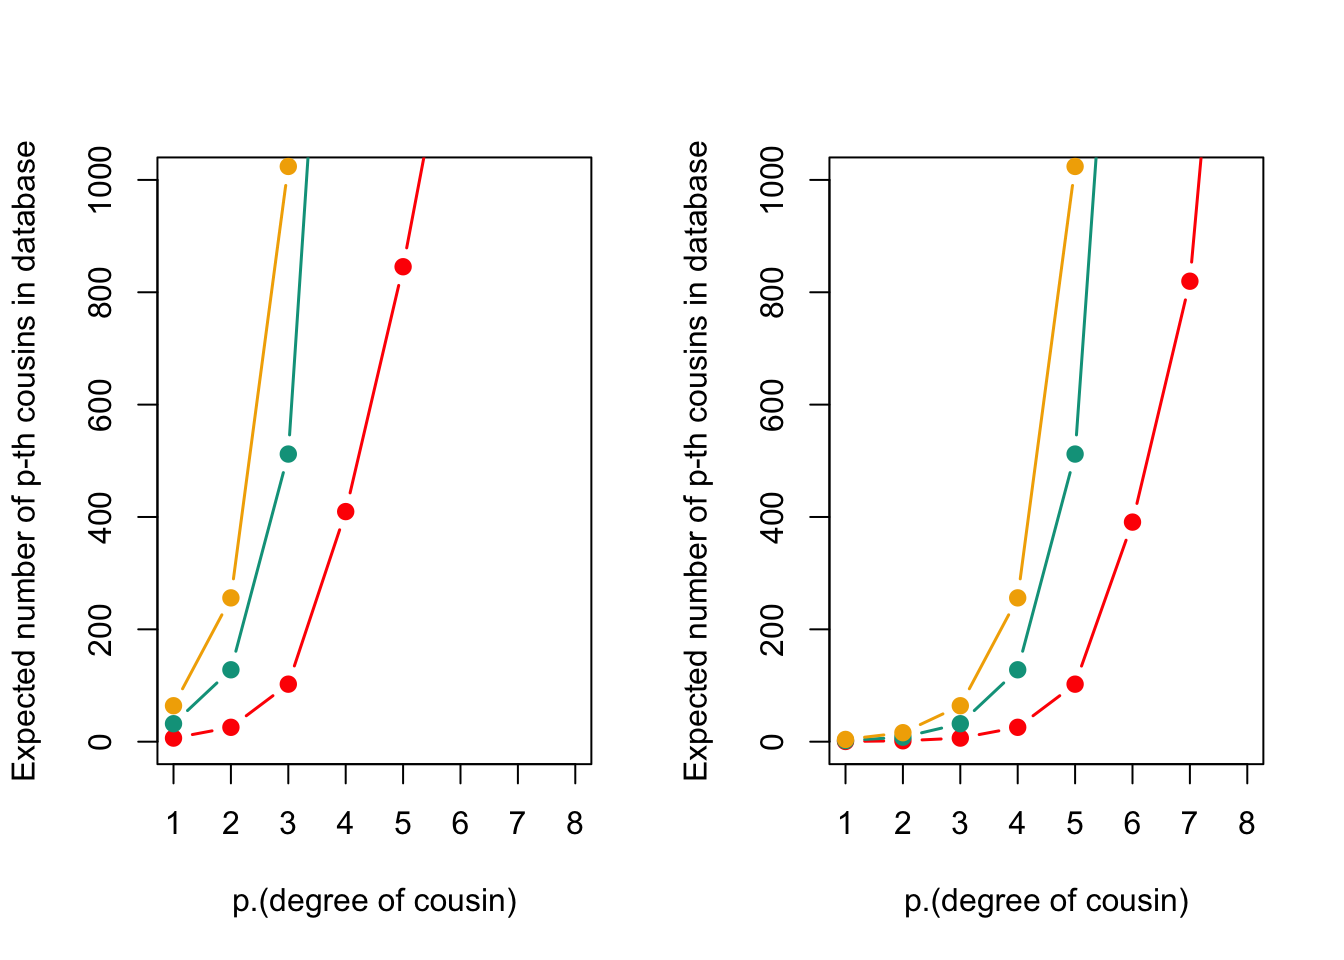
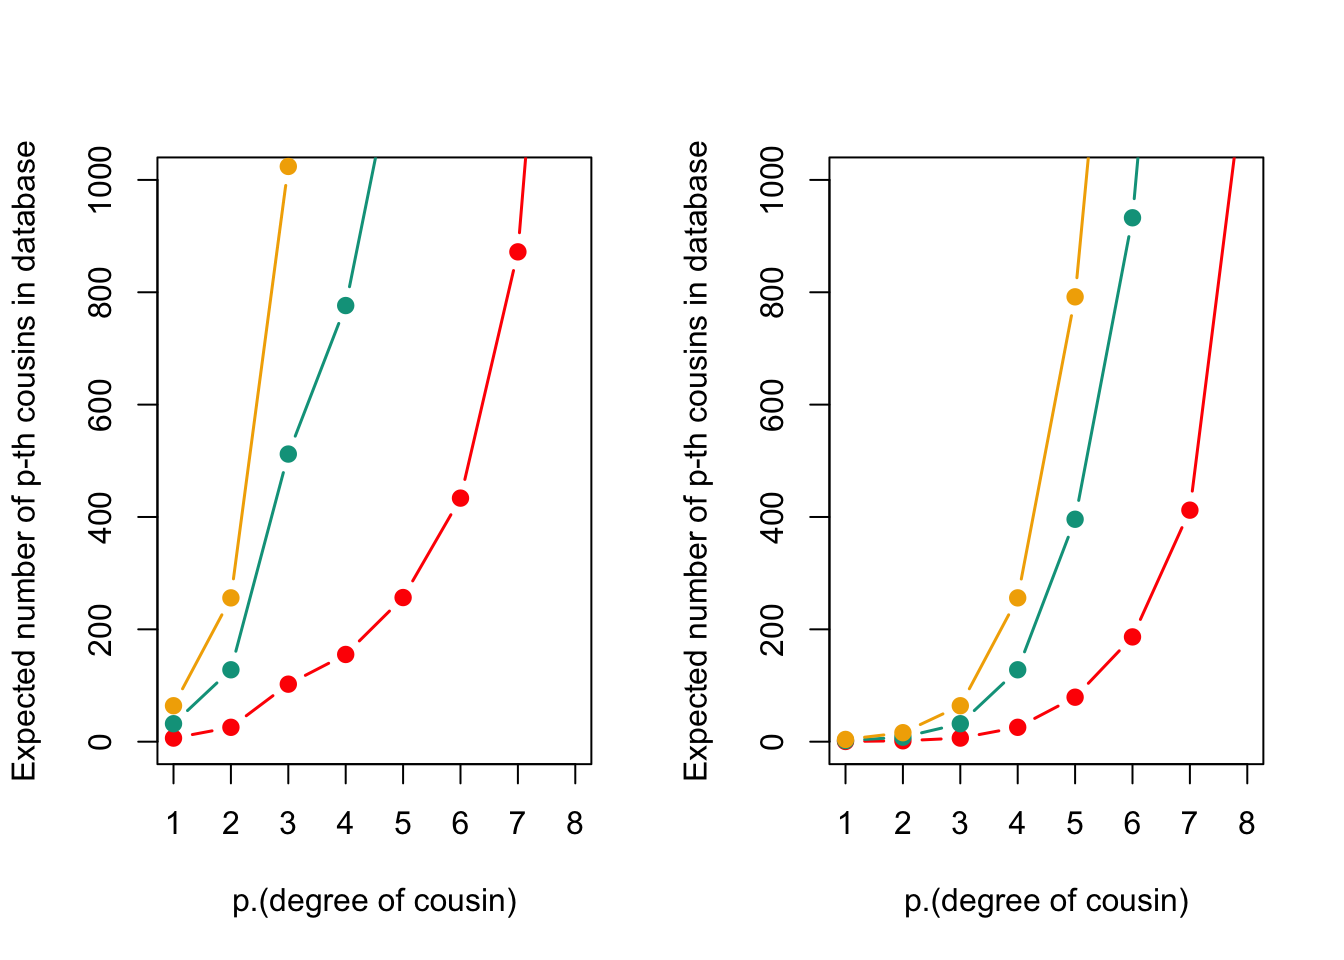
Update parameters for generations

diff --git a/docs/analyses.html b/docs/analyses.html
@@ -361,7 +361,7 @@ div.tocify {
 
 <h1 class="title toc-ignore">Analyses</h1>
 <h4 class="author">Tina Lasisi</h4>
-<h4 class="date">2023-03-05 23:44:05</h4>
+<h4 class="date">2023-03-06 11:51:46</h4>
 
 </div>
 
@@ -369,7 +369,7 @@ div.tocify {
 <p>
 <button type="button" class="btn btn-default btn-workflowr btn-workflowr-report" data-toggle="collapse" data-target="#workflowr-report">
 <span class="glyphicon glyphicon-list" aria-hidden="true"></span>
-workflowr <span class="glyphicon glyphicon-ok text-success"
+workflowr <span class="glyphicon glyphicon-exclamation-sign text-danger"
 aria-hidden="true"></span>
 </button>
 </p>
@@ -380,8 +380,8 @@ aria-hidden="true"></span>
 </li>
 <li>
 <a data-toggle="tab" href="#checks"> Checks <span
-class="glyphicon glyphicon-ok text-success" aria-hidden="true"></span>
-</a>
+class="glyphicon glyphicon-exclamation-sign text-danger"
+aria-hidden="true"></span> </a>
 </li>
 <li>
 <a data-toggle="tab" href="#versions">Past versions</a>
@@ -390,13 +390,13 @@ class="glyphicon glyphicon-ok text-success" aria-hidden="true"></span>
 <div class="tab-content">
 <div id="summary" class="tab-pane fade in active">
 <p>
-<strong>Last updated:</strong> 2023-03-05
+<strong>Last updated:</strong> 2023-03-06
 </p>
 <p>
 <strong>Checks:</strong> <span
-class="glyphicon glyphicon-ok text-success" aria-hidden="true"></span> 7
+class="glyphicon glyphicon-ok text-success" aria-hidden="true"></span> 6
 <span class="glyphicon glyphicon-exclamation-sign text-danger"
-aria-hidden="true"></span> 0
+aria-hidden="true"></span> 1
 </p>
 <p>
 <strong>Knit directory:</strong> <code>PODFRIDGE/</code> <span
@@ -419,18 +419,21 @@ versions</em> tab lists the development history.
 <div class="panel panel-default">
 <div class="panel-heading">
 <p class="panel-title">
-<a data-toggle="collapse" data-parent="#workflowr-checks" href="#strongRMarkdownfilestronguptodate">
-<span class="glyphicon glyphicon-ok text-success"
-aria-hidden="true"></span> <strong>R Markdown file:</strong> up-to-date
-</a>
+<a data-toggle="collapse" data-parent="#workflowr-checks" href="#strongRMarkdownfilestronguncommittedchanges">
+<span class="glyphicon glyphicon-exclamation-sign text-danger"
+aria-hidden="true"></span> <strong>R Markdown file:</strong> uncommitted
+changes </a>
 </p>
 </div>
-<div id="strongRMarkdownfilestronguptodate"
+<div id="strongRMarkdownfilestronguncommittedchanges"
 class="panel-collapse collapse">
 <div class="panel-body">
-<p>Great! Since the R Markdown file has been committed to the Git
-repository, you know the exact version of the code that produced these
-results.</p>
+<p>The R Markdown file has unstaged changes. To know which version of
+the R Markdown file created these results, you’ll want to first commit
+it to the Git repo. If you’re still working on the analysis, you can
+ignore this warning. When you’re finished, you can run
+<code>wflow_publish</code> to commit the R Markdown file and build the
+HTML.</p>
 </div>
 </div>
 </div>
@@ -521,15 +524,15 @@ project makes it easier to run your code on other machines.</p>
 <div class="panel panel-default">
 <div class="panel-heading">
 <p class="panel-title">
-<a data-toggle="collapse" data-parent="#workflowr-checks" href="#strongRepositoryversionstrongahrefhttpsgithubcomtinalasisiPODFRIDGEtree5106bab699da8d30b6da1642cbac39cdc20c2c55targetblank5106baba">
+<a data-toggle="collapse" data-parent="#workflowr-checks" href="#strongRepositoryversionstrongahrefhttpsgithubcomtinalasisiPODFRIDGEtree5f805fe9b5638c72575d8adca031aa08ee3e9a31targetblank5f805fea">
 <span class="glyphicon glyphicon-ok text-success"
 aria-hidden="true"></span> <strong>Repository version:</strong>
-<a href="https://github.com/tinalasisi/PODFRIDGE/tree/5106bab699da8d30b6da1642cbac39cdc20c2c55" target="_blank">5106bab</a>
+<a href="https://github.com/tinalasisi/PODFRIDGE/tree/5f805fe9b5638c72575d8adca031aa08ee3e9a31" target="_blank">5f805fe</a>
 </a>
 </p>
 </div>
 <div
[2 lines of base64/hex data omitted]
 class="panel-collapse collapse">
 <div class="panel-body">
 <p>
@@ -539,7 +542,7 @@ reproducibility.
 </p>
 <p>
 The results in this page were generated with repository version
-<a href="https://github.com/tinalasisi/PODFRIDGE/tree/5106bab699da8d30b6da1642cbac39cdc20c2c55" target="_blank">5106bab</a>.
+<a href="https://github.com/tinalasisi/PODFRIDGE/tree/5f805fe9b5638c72575d8adca031aa08ee3e9a31" target="_blank">5f805fe</a>.
 See the <em>Past versions</em> tab to see a history of the changes made
 to the R Markdown and HTML files.
 </p>
@@ -557,6 +560,11 @@ Ignored files:
     Ignored:    .DS_Store
     Ignored:    .Rproj.user/
     Ignored:    data/.DS_Store
+
+Unstaged changes:
+    Modified:   analysis/analyses.Rmd
+    Modified:   analysis/methods.Rmd
+    Modified:   data/us-pop-detailed-multisheet.xls
 
 </code></pre>
 <p>
@@ -602,6 +610,23 @@ Message
 </tr>
 </thead>
 <tbody>
+<tr>
+<td>
+html
+</td>
+<td>
+<a href="https://rawcdn.githack.com/tinalasisi/PODFRIDGE/5f805fe9b5638c72575d8adca031aa08ee3e9a31/docs/analyses.html" target="_blank">5f805fe</a>
+</td>
+<td>
+Tina Lasisi
+</td>
+<td>
+2023-03-05
+</td>
+<td>
+Build site.
+</td>
+</tr>
 <tr>
 <td>
 Rmd
@@ -762,8 +787,6 @@ Publishing POPFORGE
 </div>
 </div>
 </div>
-<div id="introduction" class="section level2">
-<h2>Introduction</h2>
 <pre class="r"><code># Load necessary packages
 library(wesanderson) # for color palettes
 library(tidyverse) #data wrangling etc</code></pre>
@@ -789,7 +812,7 @@ N &lt;- 76e6
 US_pop &lt;- read.csv(paste(path, &quot;est-pop-combo.csv&quot;, sep = &quot;&quot;))
 
 # Calculate number of grandparents by generation
-p_grandpar_gen &lt;- 1950 - 30 * (p + 1)
+p_grandpar_gen &lt;- 1990 - 30 * (p + 1)
 
 # Get population sizes by year for grandparents&#39; generation
 
@@ -813,7 +836,16 @@ DB.sizes.AFR &lt;- DB.sizes*0.05
 
 # Set color palette for graphs
 my.cols &lt;- wes_palette(&quot;Darjeeling1&quot;)</code></pre>
-</div>
+<pre class="r"><code>N</code></pre>
+<pre><code>  Year    Total    White   Black
+1 1720  1000000  1000000 1000000
+2 1750  1000000  1000000 1000000
+3 1780  1251166  1000000 1000000
+4 1810  3257946  2637933 1000000
+5 1840  7678509  6385367 1293142
+6 1870 17351267 15115220 2196004
+7 1900 34197559 30064138 3975297
+8 1930 55248771 49629033 5351014</code></pre>
 <div id="probability-of-p-th-degree-cousin" class="section level2">
 <h2>Probability of p-th degree cousin</h2>
 <pre class="r"><code>plot_prob_DB_size &lt;- function(p, DB.sizes, N, my.cols) {
@@ -828,7 +860,10 @@ my.cols &lt;- wes_palette(&quot;Darjeeling1&quot;)</code></pre>
 
 layout(t(1:2))
 
+# plot_prob_DB_size(p, DB.sizes.EUR, N$Total,  my.cols)
 plot_prob_DB_size(p, DB.sizes.EUR, N$White,  my.cols)
+# plot_prob_DB_size(p, DB.sizes.EUR, N$White,  my.cols)
+# plot_prob_DB_size(p, DB.sizes.EUR, N$Total,  my.cols)
 plot_prob_DB_size(p, DB.sizes.AFR, N$Black,  my.cols)</code></pre>
 <div class="figure" style="text-align: center">
 <img src="figure/analyses.Rmd/plt-cousins-1.png" alt="The plot above displays the probability of having at least one p-th cousin in a genetic database and the expected number of p-th cousins in a database. The plot shows the probability of finding at least one p-th cousin in a database of a given size for White Americans (left) and Black Americans (right)" width="1152" />
@@ -840,6 +875,44 @@ cousin in a database of a given size for White Americans (left) and
 Black Americans (right)
 </p>
 </div>
+<p>
+<button type="button" class="btn btn-default btn-xs btn-workflowr btn-workflowr-fig" data-toggle="collapse" data-target="#fig-plt-cousins-1">
+Past versions of plt-cousins-1.png
+</button>
+</p>
+<div id="fig-plt-cousins-1" class="collapse">
+<div class="table-responsive">
+<table class="table table-condensed table-hover">
+<thead>
+<tr>
+<th>
+Version
+</th>
+<th>
+Author
+</th>
+<th>
+Date
+</th>
+</tr>
+</thead>
+<tbody>
+<tr>
+<td>
+<a href="https://github.com/tinalasisi/PODFRIDGE/blob/5f805fe9b5638c72575d8adca031aa08ee3e9a31/docs/figure/analyses.Rmd/plt-cousins-1.png" target="_blank">5f805fe</a>
+</td>
+<td>
+Tina Lasisi
+</td>
+<td>
+2023-03-05
+</td>
+</tr>
+</tbody>
+</table>
+</div>
+</div>
+<pre class="r"><code># plot_prob_DB_size(p, DB.sizes.AFR, N$Total,  my.cols)</code></pre>
 </div>
 <div id="number-of-p-th-degree-cousins" class="section level2">
 <h2>Number of p-th degree cousins</h2>
@@ -873,6 +946,43 @@ and Black Americans (right) based on database sizes of 1 million, 5
 million, and 10 million individuals. The expected number of cousins
 increases with increasing database size and degree of relatedness
 </p>
+</div>
+<p>
+<button type="button" class="btn btn-default btn-xs btn-workflowr btn-workflowr-fig" data-toggle="collapse" data-target="#fig-plt-num-cousins-1">
+Past versions of plt-num-cousins-1.png
+</button>
+</p>
+<div id="fig-plt-num-cousins-1" class="collapse">
+<div class="table-responsive">
+<table class="table table-condensed table-hover">
+<thead>
+<tr>
+<th>
+Version
+</th>
+<th>
+Author
+</th>
+<th>
+Date
+</th>
+</tr>
+</thead>
+<tbody>
+<tr>
+<td>
+<a href="https://github.com/tinalasisi/PODFRIDGE/blob/5f805fe9b5638c72575d8adca031aa08ee3e9a31/docs/figure/analyses.Rmd/plt-num-cousins-1.png" target="_blank">5f805fe</a>
+</td>
+<td>
+Tina Lasisi
+</td>
+<td>
+2023-03-05
+</td>
+</tr>
+</tbody>
+</table>
+</div>
 </div>
 <pre><code>[[1]]
 NULL
@@ -939,6 +1049,43 @@ least two and three genomic blocks, respectively. The legend specifies
 the type of cousin being represented by each line.
 </p>
 </div>
+<p>
+<button type="button" class="btn btn-default btn-xs btn-workflowr btn-workflowr-fig" data-toggle="collapse" data-target="#fig-plt-genetic-blocks-1">
+Past versions of plt-genetic-blocks-1.png
+</button>
+</p>
+<div id="fig-plt-genetic-blocks-1" class="collapse">
+<div class="table-responsive">
+<table class="table table-condensed table-hover">
+<thead>
+<tr>
+<th>
+Version
+</th>
+<th>
+Author
+</th>
+<th>
+Date
+</th>
+</tr>
+</thead>
+<tbody>
+<tr>
+<td>
+<a href="https://github.com/tinalasisi/PODFRIDGE/blob/5f805fe9b5638c72575d8adca031aa08ee3e9a31/docs/figure/analyses.Rmd/plt-genetic-blocks-1.png" target="_blank">5f805fe</a>
+</td>
+<td>
+Tina Lasisi
+</td>
+<td>
+2023-03-05
+</td>
+</tr>
+</tbody>
+</table>
+</div>
+</div>
 </div>
 <div id="relative-to-database-size" class="section level3">
 <h3>Relative to database size</h3>
@@ -971,6 +1118,43 @@ This figure shows the expected number of genetic relatives of degree p
 in a database of a given size. The x-axis represents the degree of
 relatedness
 </p>
+</div>
+<p>
+<button type="button" class="btn btn-default btn-xs btn-workflowr btn-workflowr-fig" data-toggle="collapse" data-target="#fig-plt-num-cousins-db-1">
+Past versions of plt-num-cousins-db-1.png
+</button>
+</p>
+<div id="fig-plt-num-cousins-db-1" class="collapse">
+<div class="table-responsive">
+<table class="table table-condensed table-hover">
+<thead>
+<tr>
+<th>
+Version
+</th>
+<th>
+Author
+</th>
+<th>
+Date
+</th>
+</tr>
+</thead>
+<tbody>
+<tr>
+<td>
+<a href="https://github.com/tinalasisi/PODFRIDGE/blob/5f805fe9b5638c72575d8adca031aa08ee3e9a31/docs/figure/analyses.Rmd/plt-num-cousins-db-1.png" target="_blank">5f805fe</a>
+</td>
+<td>
+Tina Lasisi
+</td>
+<td>
+2023-03-05
+</td>
+</tr>
+</tbody>
+</table>
+</div>
 </div>
 <br>
 <p>
